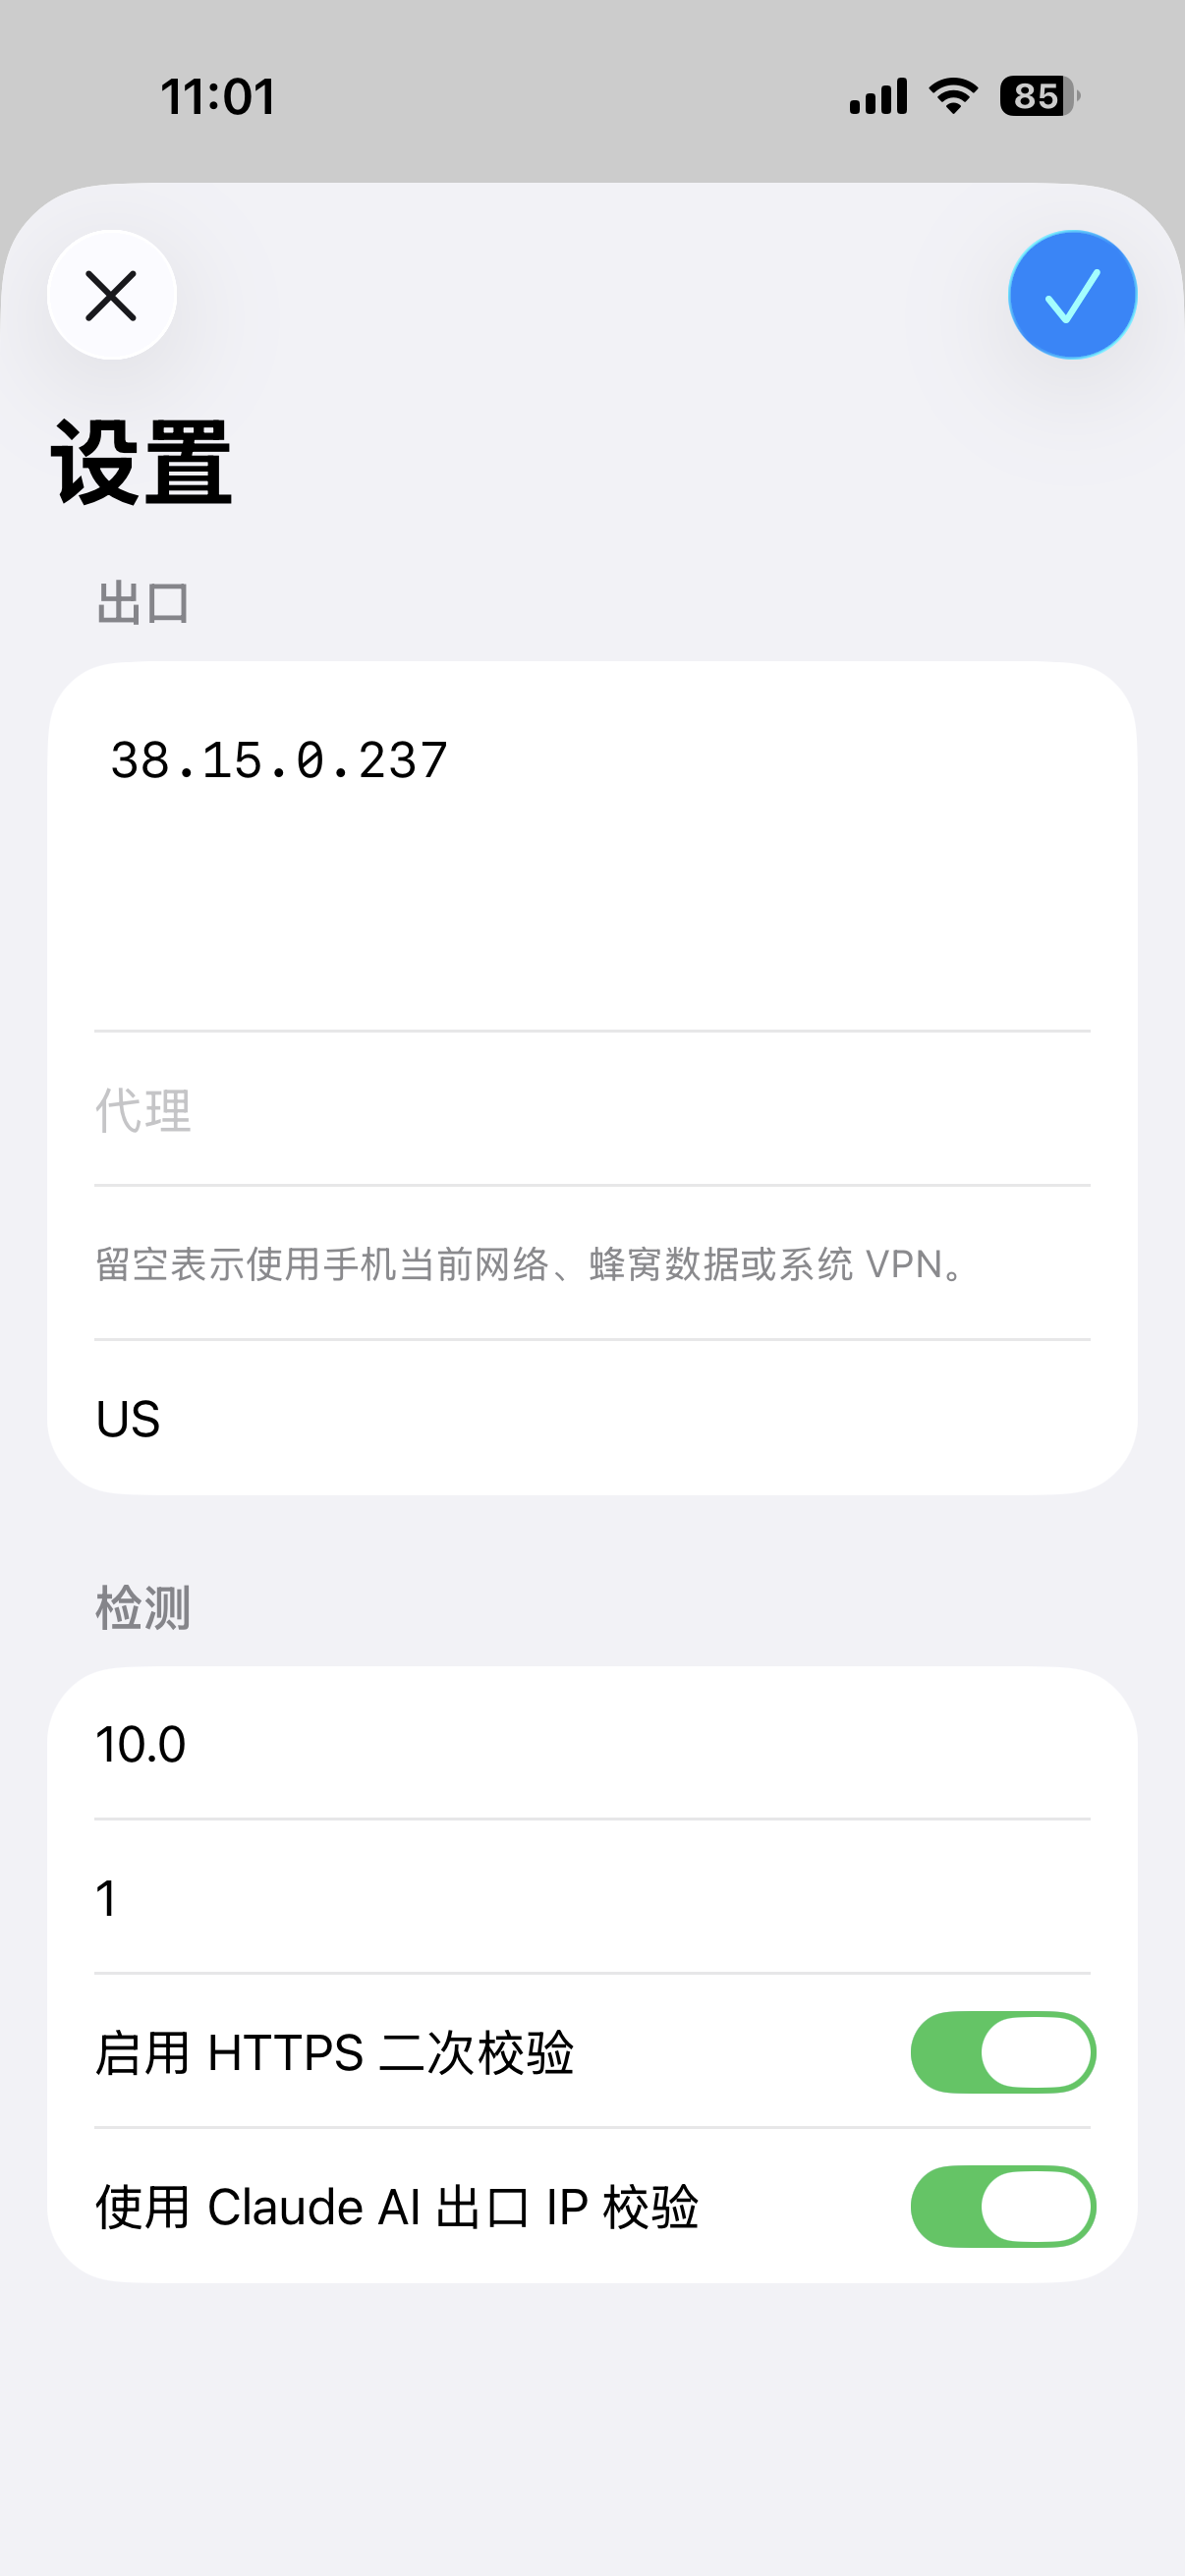
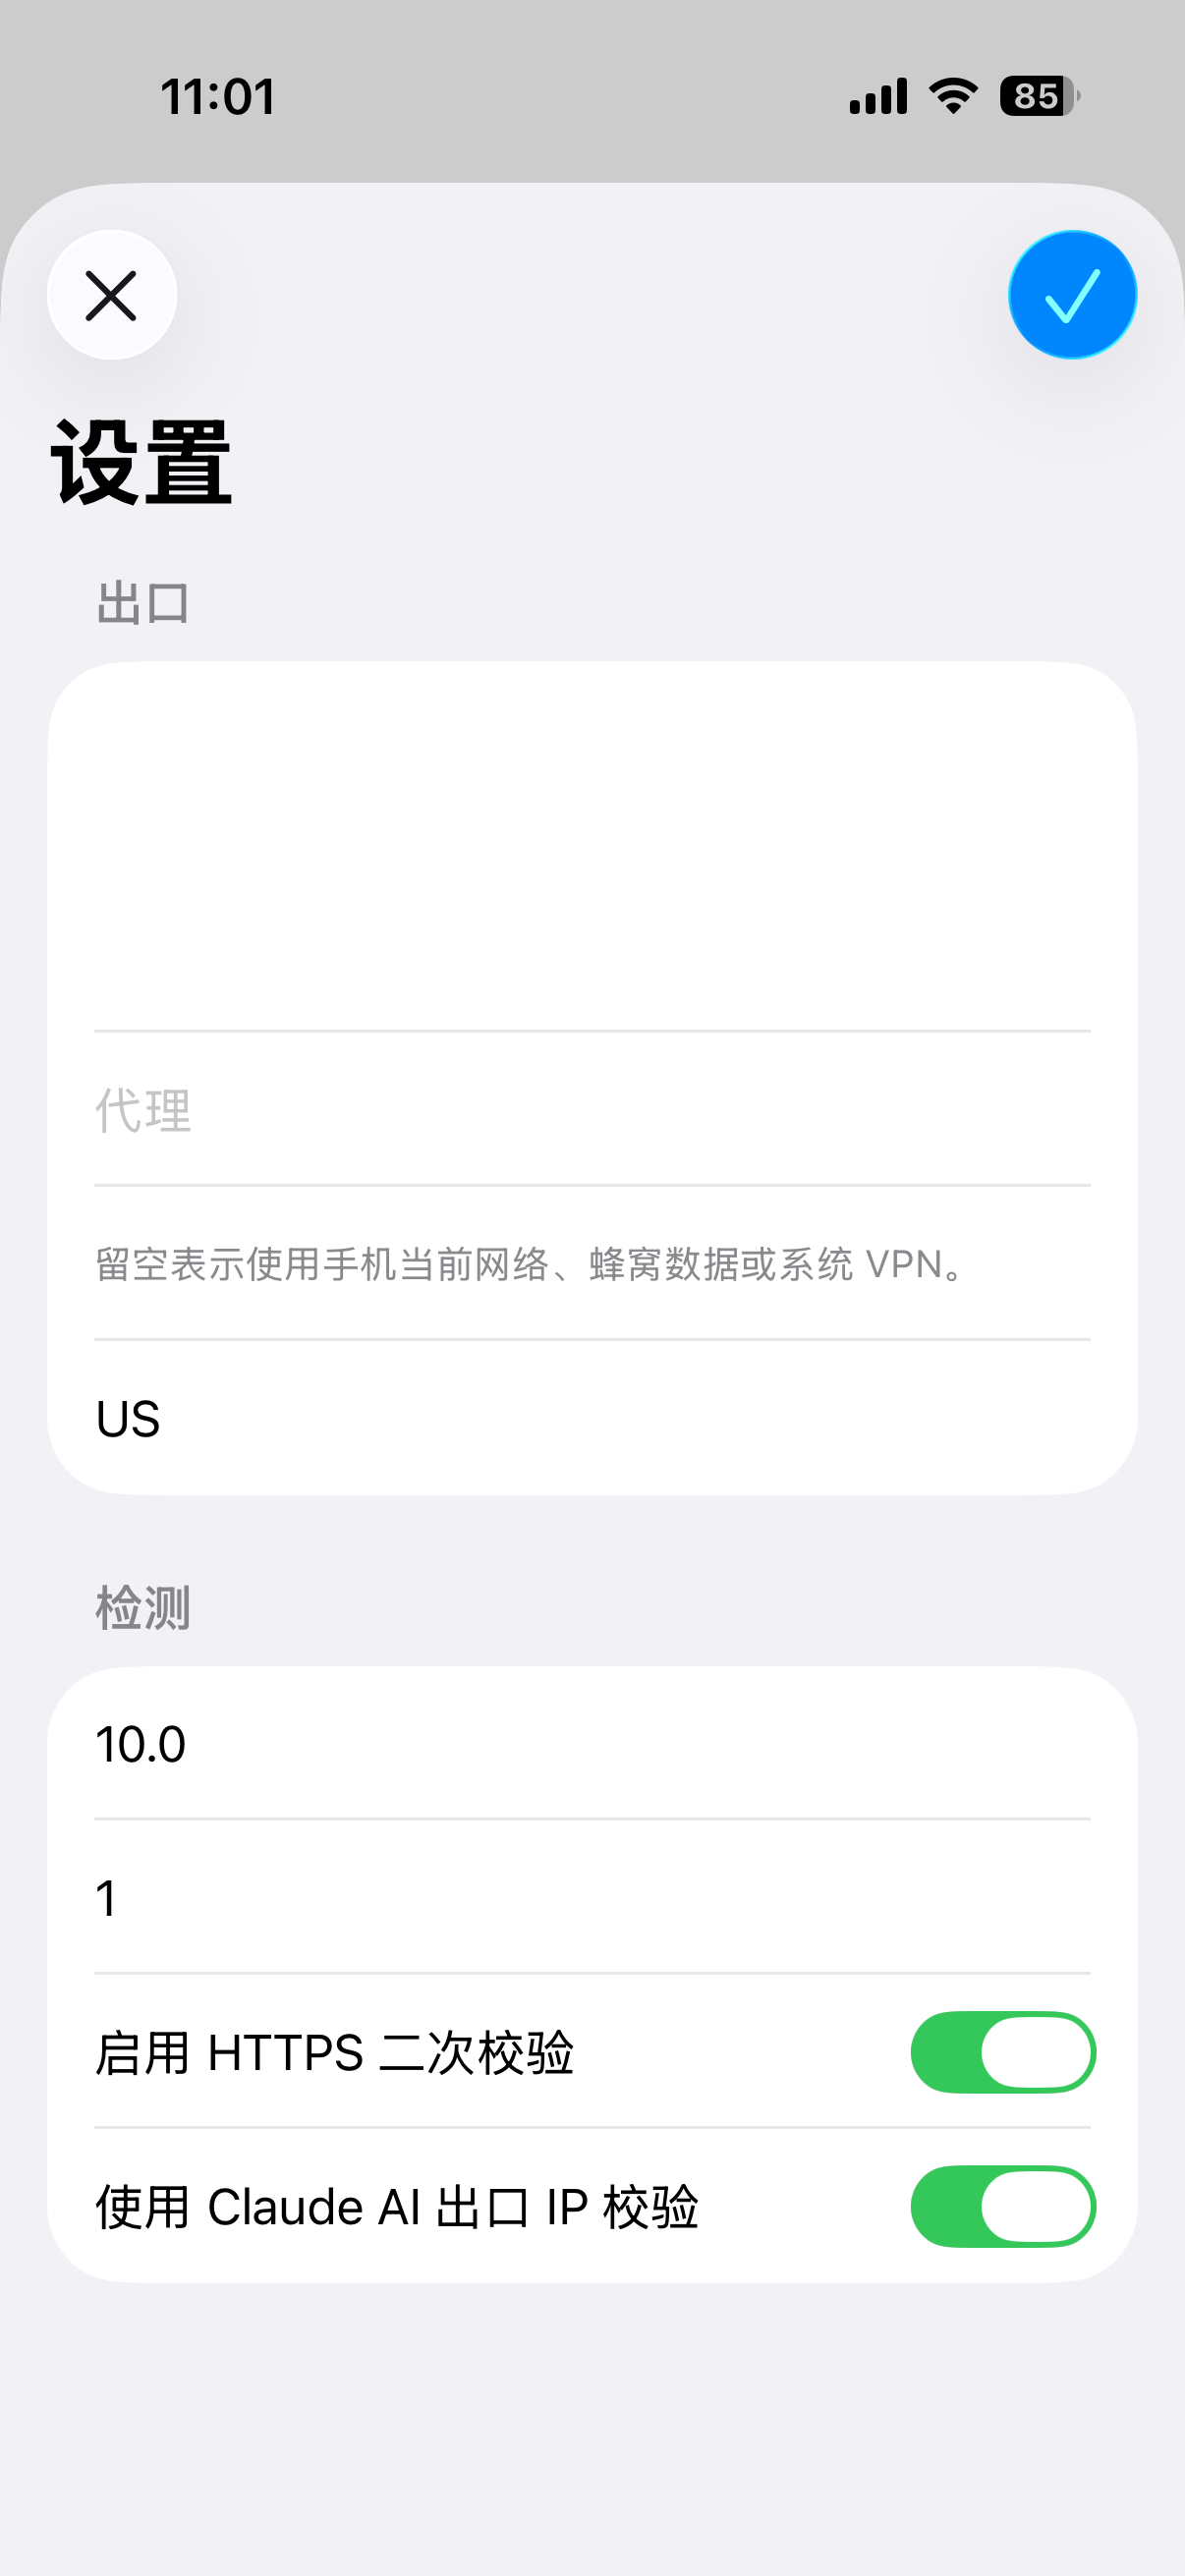
fix(ios): remove bundled private IP and mask screenshots

diff --git a/ios/ClaudeIPGuard/Tests/ClaudeIPGuardCoreTests/ClaudeIPGuardCoreTests.swift b/ios/ClaudeIPGuard/Tests/ClaudeIPGuardCoreTests/ClaudeIPGuardCoreTests.swift
@@ -7,7 +7,7 @@ struct ClaudeIPGuardCoreSmokeTests {
         try run("IP API parser extracts identity", ipAPIParserExtractsIdentity)
         try run("Cloudflare trace parser extracts Claude IP and country", cloudflareTraceParserExtractsClaudeIPAndCountry)
         try run("IP risk parser extracts type and security flags", ipRiskParserExtractsTypeAndSecurityFlags)
-        try run("Default settings hardcode the safe Claude egress IP", defaultSettingsHardcodeSafeClaudeEgressIP)
+        try run("Default settings start without a bundled safe IP", defaultSettingsStartWithoutBundledSafeIP)
         try run("Settings normalize allowed IPs and build subtitle", settingsNormalizesAllowedIPsAndBuildsSubtitle)
         try run("Settings default to phone network when proxy is blank", settingsDefaultToPhoneNetworkWhenProxyIsBlank)
         try run("Evaluator builds safe status rows when all checks match", evaluatorBuildsSafeStatusRowsWhenAllChecksMatch)
@@ -22,10 +22,10 @@ struct ClaudeIPGuardCoreSmokeTests {
           "query": "203.0.113.10",
           "countryCode": "US",
           "country": "United States",
-          "regionName": "New Jersey",
-          "city": "Hackensack",
-          "isp": "Cogent Communications",
-          "org": "Fiberpower LLC"
+          "regionName": "Example Region",
+          "city": "Example City",
+          "isp": "Example ISP",
+          "org": "Example Org"
         }
         """.utf8)
 
@@ -34,10 +34,10 @@ struct ClaudeIPGuardCoreSmokeTests {
         try expect(identity.ip == "203.0.113.10")
         try expect(identity.countryCode == "US")
         try expect(identity.country == "United States")
-        try expect(identity.region == "New Jersey")
-        try expect(identity.city == "Hackensack")
-        try expect(identity.isp == "Cogent Communications")
-        try expect(identity.org == "Fiberpower LLC")
+        try expect(identity.region == "Example Region")
+        try expect(identity.city == "Example City")
+        try expect(identity.isp == "Example ISP")
+        try expect(identity.org == "Example Org")
     }
 
     static func cloudflareTraceParserExtractsClaudeIPAndCountry() throws {
@@ -63,7 +63,7 @@ struct ClaudeIPGuardCoreSmokeTests {
           "is_abuser": false,
           "company_type": "isp",
           "asn": 174,
-          "asOrganization": "Cogent Communications, LLC",
+          "asOrganization": "Example Network, LLC",
           "trust_score": 90
         }
         """.utf8)
@@ -75,20 +75,20 @@ struct ClaudeIPGuardCoreSmokeTests {
         try expect(risk.ipTypeLabel == "家庭住宅IP")
         try expect(risk.companyType == "isp")
         try expect(risk.asn == 174)
-        try expect(risk.asOrganization == "Cogent Communications, LLC")
+        try expect(risk.asOrganization == "Example Network, LLC")
         try expect(risk.isVPN == false)
         try expect(risk.isProxy == false)
         try expect(risk.isTor == false)
     }
 
-    static func defaultSettingsHardcodeSafeClaudeEgressIP() throws {
+    static func defaultSettingsStartWithoutBundledSafeIP() throws {
         let settings = GuardSettings()
 
         try expect(settings.proxy == "")
-        try expect(settings.allowedIPs == ["38.15.0.237"])
-        try expect(settings.defaultIP == "38.15.0.237")
+        try expect(settings.allowedIPs == [])
+        try expect(settings.defaultIP == "")
         try expect(settings.expectedCountry == "US")
-        try expect(settings.subtitle == "默认 IP: 38.15.0.237 / US    允许 1 个 IP    代理: 手机当前网络")
+        try expect(settings.subtitle == "默认 IP: 未设置 / US    允许 0 个 IP    代理: 手机当前网络")
     }
 
     static func settingsNormalizesAllowedIPsAndBuildsSubtitle() throws {
@@ -110,7 +110,7 @@ struct ClaudeIPGuardCoreSmokeTests {
 
     static func settingsDefaultToPhoneNetworkWhenProxyIsBlank() throws {
         let settings = GuardSettings(
-            allowedIPsText: "38.15.0.237",
+            allowedIPsText: "203.0.113.10",
             expectedCountry: "US",
             timeout: 10,
             retries: 1,
@@ -119,7 +119,7 @@ struct ClaudeIPGuardCoreSmokeTests {
         )
 
         try expect(settings.proxy == "")
-        try expect(settings.subtitle == "默认 IP: 38.15.0.237 / US    允许 1 个 IP    代理: 手机当前网络")
+        try expect(settings.subtitle == "默认 IP: 203.0.113.10 / US    允许 1 个 IP    代理: 手机当前网络")
     }
 
     static func evaluatorBuildsSafeStatusRowsWhenAllChecksMatch() throws {
@@ -136,10 +136,10 @@ struct ClaudeIPGuardCoreSmokeTests {
             ip: "203.0.113.11",
             countryCode: "US",
             country: "United States",
-            region: "New Jersey",
-            city: "Hackensack",
-            isp: "Cogent Communications",
-            org: "Fiberpower LLC",
+            region: "Example Region",
+            city: "Example City",
+            isp: "Example ISP",
+            org: "Example Org",
             source: "ip-api"
         )
         let trace = CloudflareTrace(ip: "203.0.113.11", countryCode: "US", source: "claude.ai/cdn-cgi/trace")
@@ -149,7 +149,7 @@ struct ClaudeIPGuardCoreSmokeTests {
             ipTypeLabel: "家庭住宅IP",
             companyType: "isp",
             asn: 174,
-            asOrganization: "Cogent Communications, LLC",
+            asOrganization: "Example Network, LLC",
             isVPN: false,
             isProxy: false,
             isTor: false,
@@ -192,10 +192,10 @@ struct ClaudeIPGuardCoreSmokeTests {
             ip: "203.0.113.10",
             countryCode: "US",
             country: "United States",
-            region: "New Jersey",
-            city: "Hackensack",
-            isp: "Cogent Communications",
-            org: "Fiberpower LLC",
+            region: "Example Region",
+            city: "Example City",
+            isp: "Example ISP",
+            org: "Example Org",
             source: "ip-api"
         )
         let trace = CloudflareTrace(ip: "216.227.169.92", countryCode: "US", source: "claude.ai/cdn-cgi/trace")

diff --git a/ios/ClaudeIPGuard/App/SettingsStore.swift b/ios/ClaudeIPGuard/App/SettingsStore.swift
@@ -20,13 +20,9 @@ struct SettingsStore {
             return GuardSettings()
         }
         let proxy = decoded.proxy == GuardSettings.legacyLocalProxy ? "" : decoded.proxy
-        let allowedIPsText = decoded.allowedIPs.isEmpty
-            ? GuardSettings.defaultAllowedIPsText
-            : decoded.allowedIPsText
-
         return GuardSettings(
             proxy: proxy,
-            allowedIPsText: allowedIPsText,
+            allowedIPsText: decoded.allowedIPsText,
             expectedCountry: decoded.expectedCountry,
             timeout: decoded.timeout,
             retries: decoded.retries,

diff --git a/ios/ClaudeIPGuard/Shared/ClaudeIPGuardCore/GuardModels.swift b/ios/ClaudeIPGuard/Shared/ClaudeIPGuardCore/GuardModels.swift
@@ -36,7 +36,7 @@ public enum GuardError: Error, Equatable, CustomStringConvertible {
 }
 
 public struct GuardSettings: Codable, Equatable, Sendable {
-    public static let defaultAllowedIPsText = "38.15.0.237"
+    public static let defaultAllowedIPsText = ""
     public static let legacyLocalProxy = "http://127.0.0.1:7897"
 
     public var proxy: String

diff --git a/tests/test_claude_ip_guard.py b/tests/test_claude_ip_guard.py
@@ -17,14 +17,14 @@ def test_parse_ip_api_json_extracts_identity():
 
     result = guard.parse_ip_api_json(
         b'{"status":"success","query":"203.0.113.10","countryCode":"US",'
-        b'"country":"United States","regionName":"New Jersey","city":"Hackensack",'
-        b'"isp":"Cogent Communications","org":"Fiberpower LLC"}'
+        b'"country":"United States","regionName":"Example Region","city":"Example City",'
+        b'"isp":"Example ISP","org":"Example Org"}'
     )
 
     assert result.ip == "203.0.113.10"
     assert result.country_code == "US"
     assert result.country == "United States"
-    assert result.city == "Hackensack"
+    assert result.city == "Example City"
 
 
 def test_decision_is_safe_only_for_expected_static_us_ip():
@@ -33,10 +33,10 @@ def test_decision_is_safe_only_for_expected_static_us_ip():
         ip="203.0.113.10",
         country_code="US",
         country="United States",
-        region="New Jersey",
-        city="Hackensack",
-        isp="Cogent Communications",
-        org="Fiberpower LLC",
+        region="Example Region",
+        city="Example City",
+        isp="Example ISP",
+        org="Example Org",
         source="ip-api",
     )
 
@@ -72,8 +72,8 @@ def test_decision_requires_configured_expected_ip():
         ip="203.0.113.10",
         country_code="US",
         country="United States",
-        region="New Jersey",
-        city="Hackensack",
+        region="Example Region",
+        city="Example City",
         isp="Example ISP",
         org="Example Org",
         source="ip-api",
@@ -93,10 +93,10 @@ def test_decision_accepts_any_configured_expected_ip():
         ip="203.0.113.11",
         country_code="US",
         country="United States",
-        region="New Jersey",
-        city="Hackensack",
-        isp="Cogent Communications",
-        org="Fiberpower LLC",
+        region="Example Region",
+        city="Example City",
+        isp="Example ISP",
+        org="Example Org",
         source="ip-api",
     )
 
@@ -129,7 +129,7 @@ def test_parse_ip_risk_json_extracts_type_and_security_flags():
         b'{"ip":"203.0.113.10","is_datacenter":false,"isResidential":true,'
         b'"is_vpn":false,"is_proxy":false,"is_tor":false,"is_crawler":false,'
         b'"is_abuser":false,"company_type":"isp","asn":174,'
-        b'"asOrganization":"Cogent Communications, LLC","trust_score":90}'
+        b'"asOrganization":"Example Network, LLC","trust_score":90}'
     )
 
     assert risk.ip == "203.0.113.10"
@@ -146,10 +146,10 @@ def test_format_result_includes_claude_and_https_egress_ips():
         ip="203.0.113.10",
         country_code="US",
         country="United States",
-        region="New Jersey",
-        city="Hackensack",
-        isp="Cogent Communications",
-        org="Fiberpower LLC",
+        region="Example Region",
+        city="Example City",
+        isp="Example ISP",
+        org="Example Org",
         source="ip-api",
     )
     claude_trace = guard.CloudflareTrace(
@@ -171,7 +171,7 @@ def test_format_result_includes_claude_and_https_egress_ips():
             ip_type_label="家庭住宅IP",
             company_type="isp",
             asn=174,
-            as_organization="Cogent Communications, LLC",
+            as_organization="Example Network, LLC",
             is_vpn=False,
             is_proxy=False,
             is_tor=False,

diff --git a/tests/test_claude_ip_guard_app.py b/tests/test_claude_ip_guard_app.py
@@ -23,10 +23,10 @@ def test_build_status_model_marks_safe_state():
         ip="203.0.113.10",
         country_code="US",
         country="United States",
-        region="New Jersey",
-        city="Hackensack",
-        isp="Cogent Communications",
-        org="Fiberpower LLC",
+        region="Example Region",
+        city="Example City",
+        isp="Example ISP",
+        org="Example Org",
         source="ip-api",
     )
     decision = guard.Decision(True, guard.EXIT_SAFE, "static IP verified")
@@ -39,7 +39,7 @@ def test_build_status_model_marks_safe_state():
         ip_type_label="家庭住宅IP",
         company_type="isp",
         asn=174,
-        as_organization="Cogent Communications, LLC",
+        as_organization="Example Network, LLC",
         is_vpn=False,
         is_proxy=False,
         is_tor=False,

diff --git a/README.md b/README.md
@@ -21,15 +21,17 @@
 
 <img src="docs/ios/settings.png" alt="Claude IP Guard iOS 设置页" width="360">
 
-## 当前默认设置
+## 默认设置
 
-iOS 版已经按你的手机使用方式预置：
+iOS 版不会在代码里内置任何真实安全 IP。首次使用时需要你在手机设置页填写自己的出口 IP。
 
-- 出口 IP：`38.15.0.237`
+- 出口 IP：默认留空
 - 国家/地区：`US`
 - 代理：留空
 
 代理留空表示直接使用 iPhone 当前网络，包括蜂窝数据、手机 Wi-Fi 或系统 VPN。手机上跑的时候不依赖 Mac 的本地代理。
+
+README 和测试里只使用 `203.0.113.10` 这类文档示例 IP，不代表真实可用出口。
 
 ## 怎么装到 iPhone
 

diff --git a/ios/ClaudeIPGuard/README.md b/ios/ClaudeIPGuard/README.md
@@ -4,13 +4,15 @@
 
 ## 默认配置
 
-App 默认配置为：
+App 不会在代码里内置任何真实安全 IP。首次使用时需要你在设置页填写自己的出口 IP。
 
-- 出口 IP：`38.15.0.237`
+- 出口 IP：默认留空
 - 国家/地区：`US`
 - 代理：留空
 
 代理留空表示使用 iPhone 当前网络、蜂窝数据或系统 VPN。如果代理就在 iPhone 上运行，可以填写手机本地代理地址；如果代理在局域网其他设备上，需要填写手机能访问到的局域网代理地址。
+
+README 和测试里只使用 `203.0.113.10` 这类文档示例 IP，不代表真实可用出口。
 
 ## Xcode 运行
 